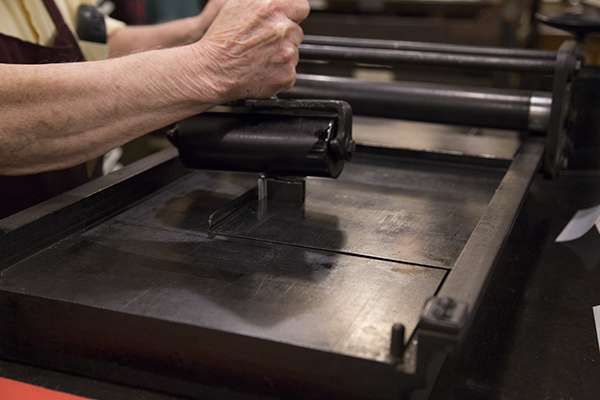
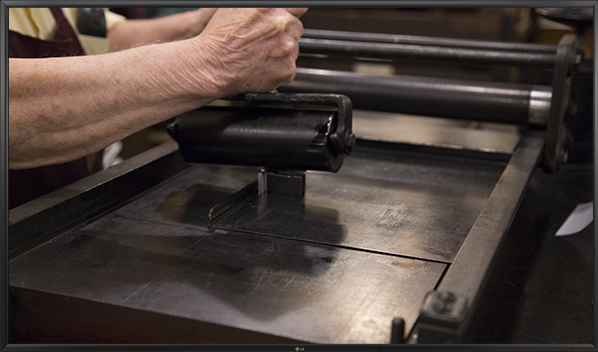
updating linotype page

diff --git a/environmental/linotype.html b/environmental/linotype.html
@@ -67,15 +67,45 @@
 			  	
 			  		<h1>Linotype Exhibition</h1>
 			  		
-			  		<p>The linotype, a machine of the 19th century that made the United States the most literate country during the machine's peak, has its origins in Baltimore. Newspapers like <em>The New York Times</em> and <em>The Baltimore Sun</em> were able to drastically lengthen and sensationalize their papers. The <a href="http://thebmi.org/" target="_blank">Baltimore Museum of Industry</a> features this revolutionary machine in demonstrations and as part of one of its permanent exhibits.</p>
+			  		<p>The linotype, a machine of the 19th century that made the United States the most literate country during the machine's peak, has its origins in Baltimore. Newspapers like <em>The New York Times</em> and <em>The Baltimore Sun</em> were able to drastically lengthen and sensationalize their papers. The <a href="http://thebmi.org/" target="_blank">Baltimore Museum of Industry</a> (BMI) features this revolutionary machine in demonstrations and as part of one of its permanent exhibits.</p>
 			  		
 			  	</div><!--end welcome-->
 			  	
 			  	<div class="gallery-here impossibility">
 			  	
-				  	<img src="../img/environmental/linotype-full.png" alt="portfolio" class="fade-in portfolio one"/></li></a>
+				  	<img src="../img/environmental/linotype-full.png" alt="portfolio" class="fade-in portfolio one"/>
 				  	
 				</div><!-- end gallery-here -->
+			  	
+			  	<div class="welcome">
+			  	
+			  		<h2>The Original Exhibit</h2>
+			  		
+			  		<p>The original exhibit consists of two adjacent 12 ft high walls and is part of an existing permanent exhibit standing against walls that meet at 45 degree angles. First-time visitors will first observe the right side of the exhibit.</p>
+			  		
+			  	</div><!--end welcome-->
+			  	
+			  	<div class="gallery-here impossibility">
+			  	
+				  	<img src="../img/environmental/linotype-site.png" alt="portfolio" class="fade-in portfolio one"/>
+				  	
+				</div>
+			  	
+			  	<div class="welcome">
+			  	
+			  		<h2>The Inspiration</h2>
+			  		
+			  		<p>Rather than displaying the linotype in its actual color, I took inspiration from the following image and used the following color palette. The color palette is also reminiscent of the BMI's branding.</p>
+			  		
+			  	</div><!--end welcome-->
+			  	
+			  	<div class="gallery-here impossibility">
+			  	
+				  	<img src="../img/environmental/linotype-inspiration.jpg" alt="portfolio" class="fade-in portfolio one"/>
+			  	
+				  	<img src="../img/environmental/linotype-color.png" alt="portfolio" class="fade-in portfolio one ipad"/>
+				  	
+				</div>
 			  	
 			  	<div class="welcome">
 			  	
@@ -87,8 +117,41 @@
 			  	
 			  	<div class="gallery-here impossibility">
 			  	
-				  	<img src="../img/environmental/linotype-design.png" alt="portfolio" class="fade-in portfolio one"/></li></a>
+				  	<img src="../img/environmental/linotype-design.png" alt="portfolio" class="fade-in portfolio one"/>
 				  	
+				</div>
+			  	
+			  	<div class="welcome">
+			  	
+			  		<h2>The Vantage Points</h2>
+			  		
+			  		<p>My design focuses on visitors of all ages (especially middle schoolers) and catches the attention of viewers from the left. The design I proposed utilizes a large TV screen with iPad minis in order to effectively teach users about how innovative this machine was during its time.</p>
+			  		
+			  	</div><!--end welcome-->
+			  	
+			  	<div class="gallery-here impossibility">
+			  	
+				  	<img src="../img/environmental/linotype-vantage.png" alt="portfolio" class="fade-in portfolio one"/>
+			  	
+				  	<img src="../img/environmental/linotype-full.png" alt="portfolio" class="fade-in portfolio two"/>
+				  	
+				</div>
+			  	
+			  	<div class="welcome">
+			  	
+			  		<h2>The Interactive Experience</h2>
+			  		
+			  		<p>Multiple middle school students can work together or one adult user can use the iPad minis that together act as the keyboard/interface for the linotype. Users can select a phase of the linotype process: create the lines, create the slugs, and redistribute the molds. The movie screen shows what the linotype does and how it works. If technology cannot work at the time, the left side of the wall displays the artifacts/parts used to make printing happen.</p>
+			  		
+			  	</div><!--end welcome-->
+			  	
+			  	<div class="gallery-here impossibility">
+			  	
+				  	<img src="../img/environmental/linotype-ink.png" alt="portfolio" class="fade-in portfolio one"/>
+			  	
+				  	<img src="../img/environmental/linotype-mini.png" alt="portfolio" class="fade-in portfolio two ipad"/>
+				  	
+				</div>
 				
 			  </div><!-- end main-container -->
 		</div><!-- end wrapper -->

diff --git a/css/main.css b/css/main.css
@@ -272,6 +272,15 @@ animation-delay: 2s;
 	margin-top: 25%;
 }
 
+
+/*---------- Linotype -----------*/
+
+.gallery-here.impossibility .portfolio.ipad {
+	max-width: 65%;
+	display: block;
+	margin: 0 auto;
+}
+
 /*------ Stamps -------*/
 
 .gallery-here.warhol {
@@ -373,7 +382,7 @@ animation-delay: 2s;
 	
 	.welcome {
 		width: 870px;
-		margin: 0 auto 3%;
+		margin: 7% auto 3%;
 	}
 	
 	.welcome.virtuo {
@@ -480,10 +489,10 @@ animation-delay: 2s;
 	
 	.gallery-here.impossibility {
 		width: 78%;
-		margin: 0 auto;
+		margin: 0 auto 6%;
 	}
 	
-	.gallery-here.impossibility .portfolio {
+	.gallery-here.impossibility .portfolio, .gallery-here.impossibility .portfolio.ipad {
 		width: 100%;
 		max-width: 100%;
 		margin: 0 auto;
@@ -608,7 +617,7 @@ animation-delay: 2s;
 	
 	.gallery-here.impossibility {
 		width: 78%;
-		margin: 0 auto;
+		margin: 0 auto 3%;
 	}
 	
 	.gallery-here.impossibility .portfolio {
@@ -714,7 +723,7 @@ animation-delay: 2s;
 	.gallery-here {
 		display: block;
 		width: 100%;
-		margin: 0 auto;
+		margin: 0 auto 3%;
 		text-align: center;
 	}
 	
@@ -747,6 +756,12 @@ animation-delay: 2s;
 	.gallery-here.warhol img {
 		max-width: 100%;
 		width: 100%;
+	}
+
+	.gallery-here.impossibility .portfolio.ipad {
+		max-width: 100%;
+		display: block;
+		margin: 0 auto 8%;
 	}
 	
 	h2 {
